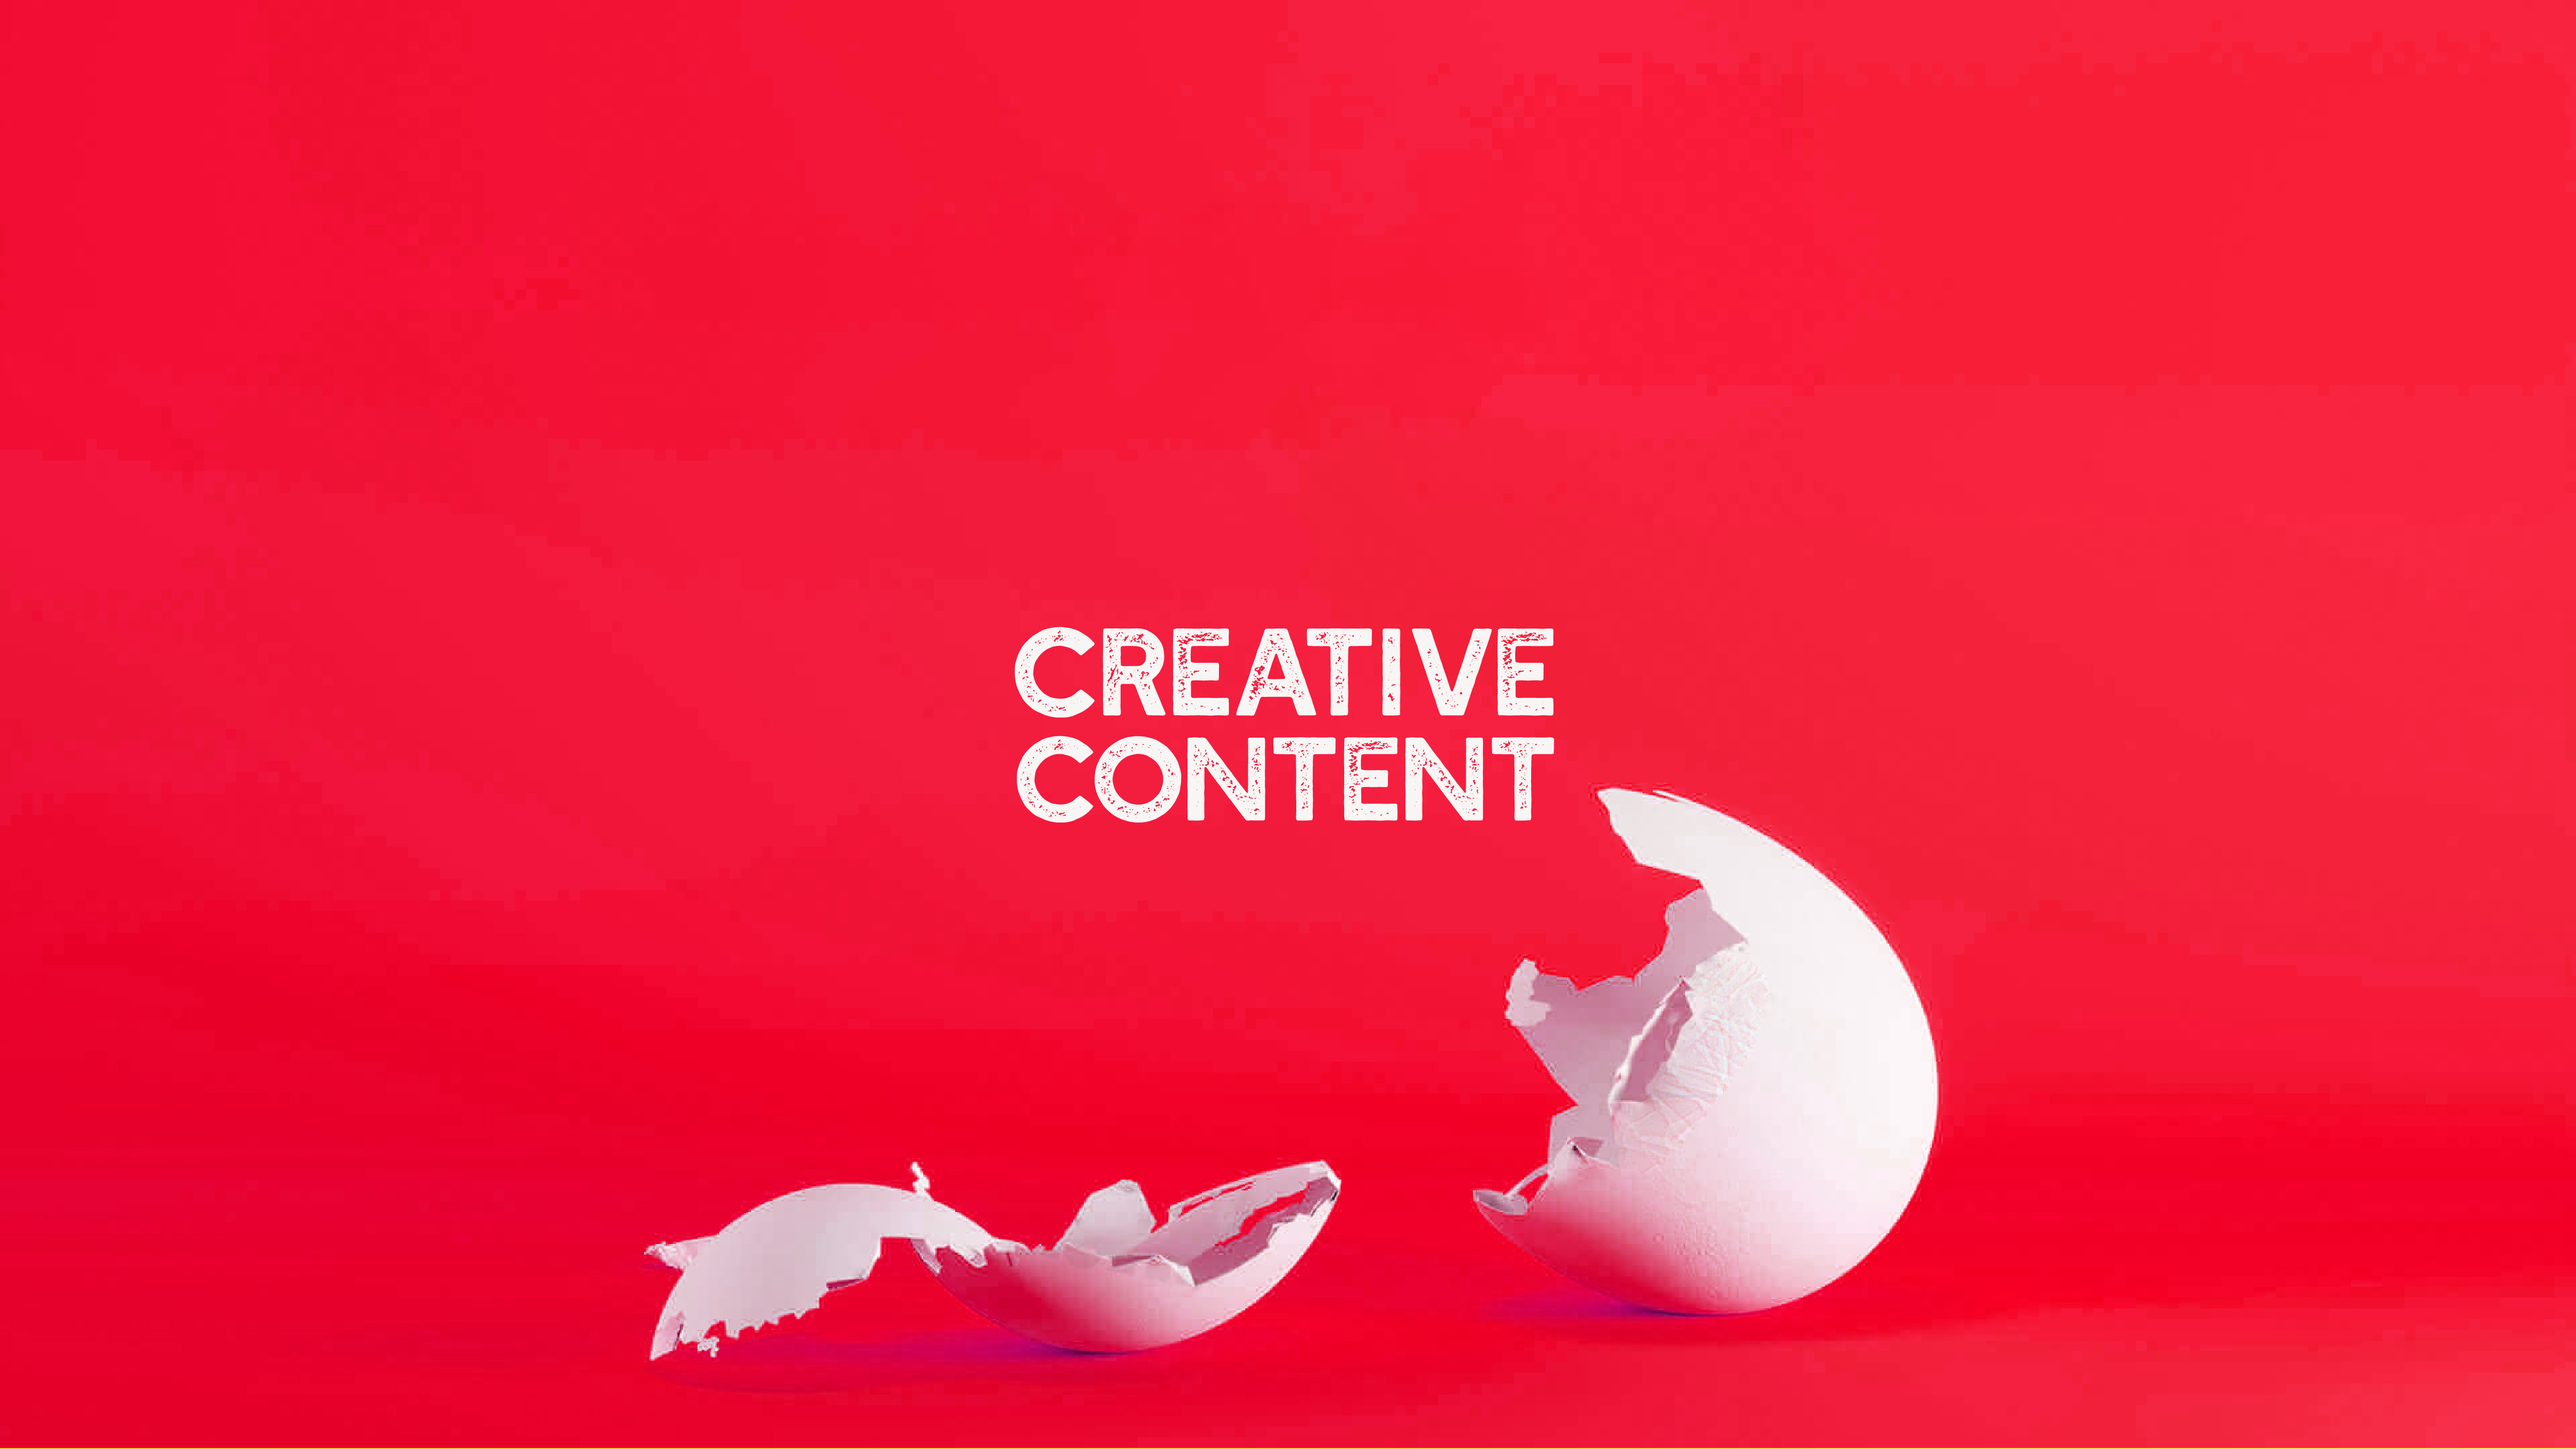
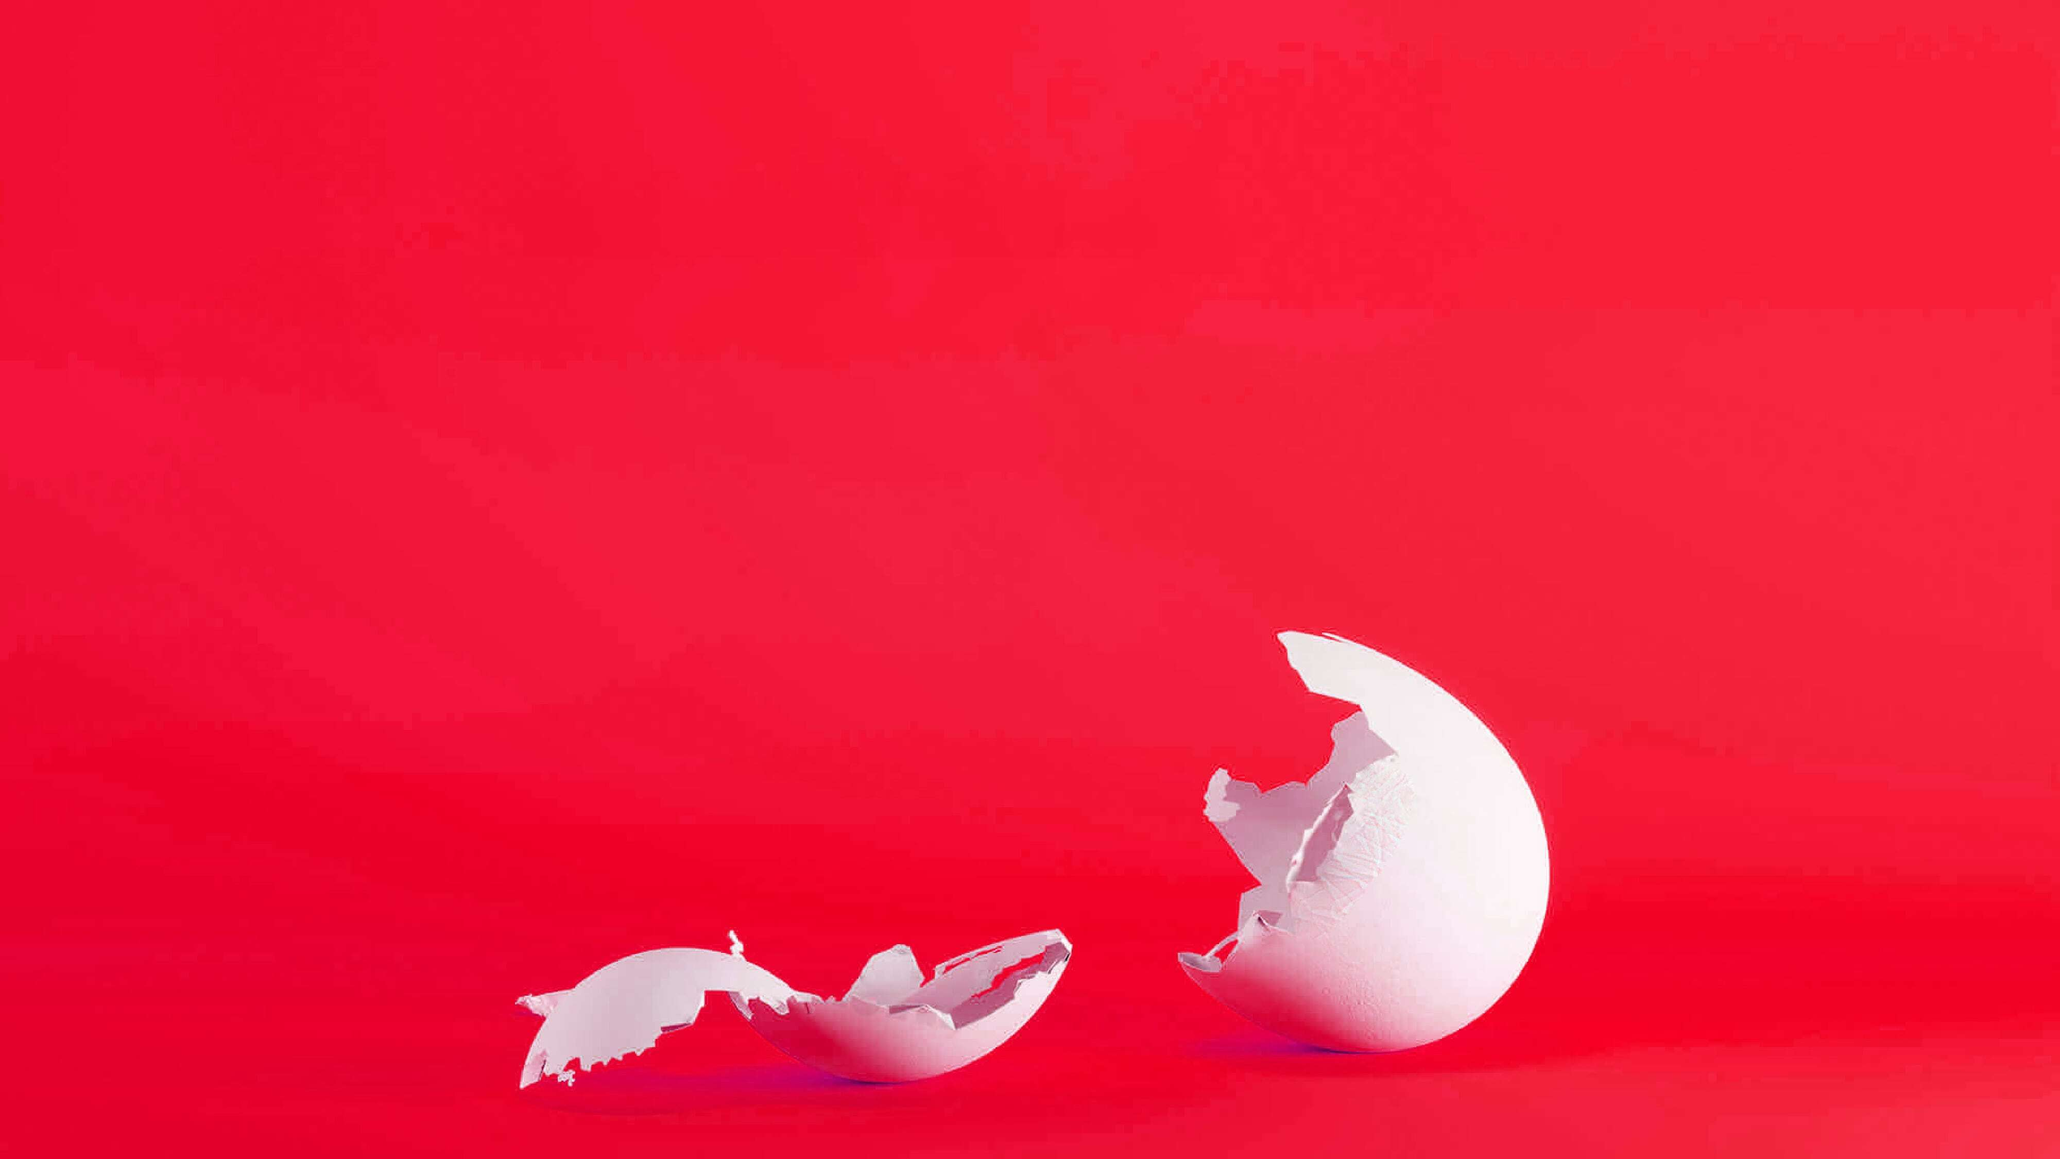
Change the slider backgrounds

diff --git a/src/assets/index.js b/src/assets/index.js
@@ -20,7 +20,7 @@ export { default as digitalImage } from './images/digitalimage.png';
 export { default as clientLogos } from './images/clientlogos.png';
 export { default as smilingEmoji } from './images/smilingemoji.png';
 
-export { default as SlideOneBg } from './images/slider-bgs/slide1.jpg'
+export { default as SlideOneBg } from './images/slider-bgs/slide1.jpg';
 
 export { default as digitalTextImage } from './images/digitalletters.png';
 export { default as btlTextImage } from './images/text-btl.png';
@@ -30,7 +30,6 @@ export { default as brandingTextImage } from './images/text-branding.png';
 export { default as loveLovy } from './gifs/lovegiphy.gif';
 
 export { default as brandingTextBanner } from './images/text-banner-branding.png';
-
 
 // New Icons
 export { default as logoLimeGreen } from './images/animated-icons/elevate_logo_lime_green.png';
@@ -45,3 +44,7 @@ export { default as uiUxMain } from './images/animated-icons/uiuxmain.png';
 export { default as elevateLogo } from './images/elevate-logo-white.png';
 
 export { default as uiUxImage } from './images/ui-ux-image.png';
+
+export { default as creativeContentLabel } from './images/creative-content-label.png';
+export { default as smmLabel } from './images/smm-label.png';
+export { default as uiUxLabel } from './images/ui-ux-label.png';

diff --git a/src/assets/styles/slides/slidetwo.scss b/src/assets/styles/slides/slidetwo.scss
@@ -1,6 +1,5 @@
 .slide-two-container {
-  // background: linear-gradient(rgb(2, 238, 255) 0%, rgb(0, 181, 253) 100%);
-  background-image: url(../../images/slider-bgs/socialmediabg.jpg);
+  background: linear-gradient(#11c0ce 0%, #11c0ce 100%);
   background-size: cover;
   background-position: 50% 50%;
   background-color: transparent;
@@ -97,7 +96,7 @@
   width: 100%;
   height: 100%;
 }
-.move-emoji{
+.move-emoji {
   top: -13px !important;
   right: -18px !important;
   visibility: visible !important;
@@ -163,7 +162,6 @@
   transform: translate(-50%, -50%) rotate(-60deg);
 }
 
-
 @keyframes spin {
   from {
     transform: rotateY(0deg);
@@ -182,5 +180,16 @@
   }
   to {
     -webkit-transform: rotateY(360deg);
+  }
+}
+
+.SlideTwo-label {
+  width: 15vw;
+  position: absolute;
+  top: 40%;
+  left: 50%;
+  transform: translate(-50%, -50%);
+  img {
+    width: 100%;
   }
 }

diff --git a/src/components/slides/SlideOne.jsx b/src/components/slides/SlideOne.jsx
@@ -1,6 +1,6 @@
 import React, { useRef, useEffect } from 'react';
 import '../../assets/styles/slides/slideone.scss';
-import { bulbImage, smallBulb, logoLimeGreen } from '../../assets';
+import { bulbImage, smallBulb, logoLimeGreen, creativeContentLabel } from '../../assets';
 import { splitLetters } from '../../utils';
 
 export default function SlideOne() {
@@ -102,6 +102,9 @@ export default function SlideOne() {
         </div>
         <div className="logo-container bottom-left-logo">
           <img src={logoLimeGreen} alt="logo"/>
+        </div>
+        <div className="SlideOne-label">
+          <img src={creativeContentLabel} alt="creative-content-label"/>
         </div>
         {/* <div className="slide-one-letters">
           <div className="letters">Let</div>

diff --git a/src/components/slides/SlideThree.jsx b/src/components/slides/SlideThree.jsx
@@ -1,6 +1,6 @@
 import React, { useRef, useEffect } from 'react';
 import '../../assets/styles/slides/slidethree.scss';
-import { uiUxMain, pencil, triRuler, eraser, logoGray } from '../../assets';
+import { uiUxLabel ,uiUxMain, pencil, triRuler, eraser, logoGray } from '../../assets';
 import { splitLetters } from '../../utils';
 
 export default function SlideThree() {
@@ -72,6 +72,9 @@ export default function SlideThree() {
         </div>
         <div className="tri-ruler-image-container">
           <img src={triRuler} alt="insta-like" />
+        </div>
+        <div className="SlideThree-label">
+          <img src={uiUxLabel} alt="creative-content-label" />
         </div>
         <div className="overlay">
           <div className="ui-ux-img-container">

diff --git a/src/components/slides/SlideTwo.jsx b/src/components/slides/SlideTwo.jsx
@@ -1,6 +1,6 @@
 import React, { useRef, useEffect } from 'react';
 import '../../assets/styles/slides/slidetwo.scss';
-import { heartMainImage, instaLike, logoLimeGreen } from '../../assets';
+import { smmLabel ,heartMainImage, instaLike, logoLimeGreen } from '../../assets';
 import { splitLetters } from '../../utils';
 
 export default function SlideTwo() {
@@ -85,6 +85,9 @@ export default function SlideTwo() {
       </div>
       <div className="insta-like-container bottom-left-insta-like">
         <img src={instaLike} alt="insta-like" />
+      </div>
+      <div className="SlideTwo-label">
+        <img src={smmLabel} alt="creative-content-label" />
       </div>
       <div className="overlay">
         <div className="hearts" ref={digitalImageContainer}>

diff --git a/src/assets/styles/slides/slidethree.scss b/src/assets/styles/slides/slidethree.scss
@@ -11,9 +11,9 @@
 }
 
 .slide-three-banner {
+  background: linear-gradient(#b5bc21 0%, #b5bc21 100%);
   background-color: transparent;
   background-repeat: no-repeat;
-  background-image: url(../../images/slider-bgs/uiuxbg.jpg);
   background-size: cover;
   background-position: 50% 50%;
   width: 100%;
@@ -112,5 +112,16 @@
   img {
     width: 100%;
     height: 100%;
+  }
+}
+
+.SlideThree-label {
+  width: 20vw;
+  position: absolute;
+  top: 50%;
+  left: 50%;
+  transform: translate(-50%, -50%);
+  img {
+    width: 100%;
   }
 }

diff --git a/src/assets/styles/slides/slideone.scss b/src/assets/styles/slides/slideone.scss
@@ -142,3 +142,14 @@
   transform: rotateX(0deg);
   transition: transform 0.38s cubic-bezier(0.175, 0.885, 0.32, 1.275);
 }
+
+.SlideOne-label {
+  width: 30vw;
+  position: absolute;
+  top: 50%;
+  left: 50%;
+  transform: translate(-50%, -50%);
+  img {
+    width: 100%;
+  }
+}
